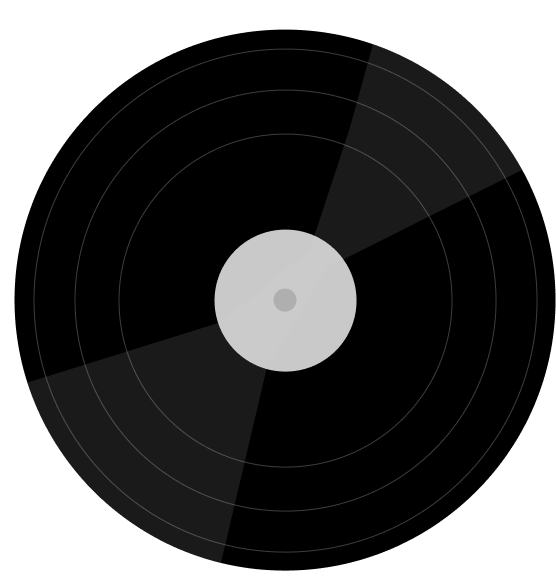
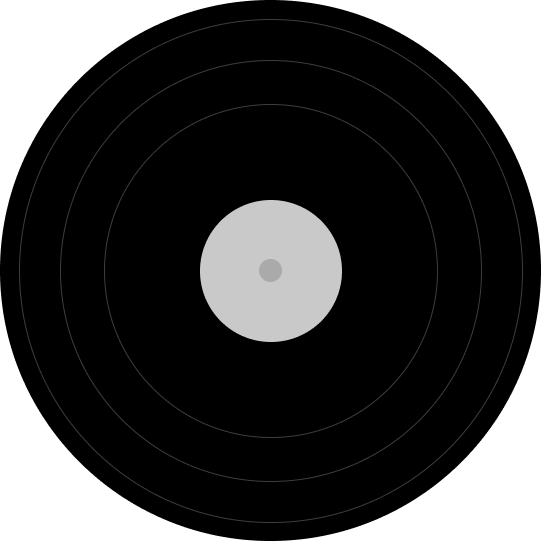
login screen has some more additions now like multiple lps and the login button sends you to the landing page

diff --git a/Vinyl-Collector/src/pages/Login.jsx b/Vinyl-Collector/src/pages/Login.jsx
@@ -1,25 +1,32 @@
 import "./Login.css"
 import bg from "../assets/background/LP.png";
 import bghandle from "../assets/background/Handle.png";
+import gloss from "../assets/background/gloss.png";
+import vinylCollection from "../assets/background/vinyl_Collection.png";
 import * as motion from "motion/react-client"
-
+import { useNavigate } from 'react-router-dom';
 
 function Login(){
+    const navigate = useNavigate();
     return (
     <>
     <div className="page-container">
 
         <img src={bghandle} className="handle-Image" alt="Logo" />
-        <motion.img src={bg} className="lp-Image" transition={{duration:10}} animate={{rotate:360}}/>
-        
+        <img src={vinylCollection} className="vinyl-Collection-Image" alt="Logo" />
+        <div className="LP">
+            <img src={gloss} className="gloss-Image" alt="Logo" />
+            <motion.img src={bg} className="lp-Image" transition={{duration:10}} animate={{rotate:360}}/>
+        </div>
+       
         <div className="login-container">
             <h1>LOGIN</h1>
-            <form className="form-container">
+            <form className="form-container" onSubmit={(e) => { e.preventDefault(); navigate('/landingpage'); }}>
                 <input className="inputfield" id="email" name="email" placeholder="Email"></input>
                 <input className="inputfield" id="password" name="password" placeholder="Password"></input>
-                <a>Forget password</a>
-                <button className="form-button">Log in</button>
-                <p>Dont have an account&nbsp;<a>register</a></p>
+                <a>Forgot password</a>
+                <button type="submit" className="form-button">Log in</button>
+                <p>Dont have an account?&nbsp;<a>register here!</a></p>
             </form>
         </div>
     </div>

diff --git a/Vinyl-Collector/src/pages/Login.css b/Vinyl-Collector/src/pages/Login.css
@@ -1,13 +1,17 @@
 .page-container{
     display: flex;
+    
+    justify-content: center;
+    align-items: center;
 
-    max-width: 100%;
-    width: fit-content;
-    height: auto;
+    position: relative;
 
-    margin-top: 10rem;
-    margin-left: auto;
-    margin-right: auto;
+    overflow: hidden;
+
+    width: 100%;
+    height: 100vh;
+
+    margin: 0;
 
     text-align: center;
 }
@@ -15,8 +19,9 @@
 .login-container{
     width: 400px;
     height: 505px;
-
+    
     padding: 20px;
+    margin-bottom: 20px;
 
     display: flex;
     flex-direction: column;
@@ -58,11 +63,16 @@
 .lp-Image{
     width: 600px;
     position: absolute;
-    top: 45%;
-    right:75%;
+ 
+    z-index: 0;
+}
+
+.LP{
+    position: absolute;
+    top: 50%;
+    left: -10%;
 
     z-index: 0;
-
 }
 
 .handle-Image{
@@ -72,4 +82,22 @@
     left: 0%;
 
     z-index: 1;
+}
+
+.gloss-Image{
+    width: 600px;
+    position: absolute;
+
+    z-index: 2;
+}
+
+.vinyl-Collection-Image{
+    width: 390px;
+    height: 308px;
+    position: absolute;
+    
+    bottom: 0;
+    right: 0;
+
+    z-index: 0;
 }

diff --git a/Vinyl-Collector/src/App.css b/Vinyl-Collector/src/App.css
@@ -7,18 +7,8 @@
   padding: 0;
 }
 
-@keyframes logo-spin {
-  from {
-    transform: rotate(0deg);
-  }
-  to {
-    transform: rotate(360deg);
-  }
+body {
+  margin: 0;
 }
 
-@media (prefers-reduced-motion: no-preference) {
-  a:nth-of-type(2) .logo {
-    animation: logo-spin infinite 20s linear;
-  }
-}
 

diff --git a/Vinyl-Collector/src/index.css b/Vinyl-Collector/src/index.css
@@ -10,4 +10,7 @@
   text-rendering: optimizeLegibility;
   -webkit-font-smoothing: antialiased;
   -moz-osx-font-smoothing: grayscale;
+  margin: 0;
+  
+  padding: 0;
 }
